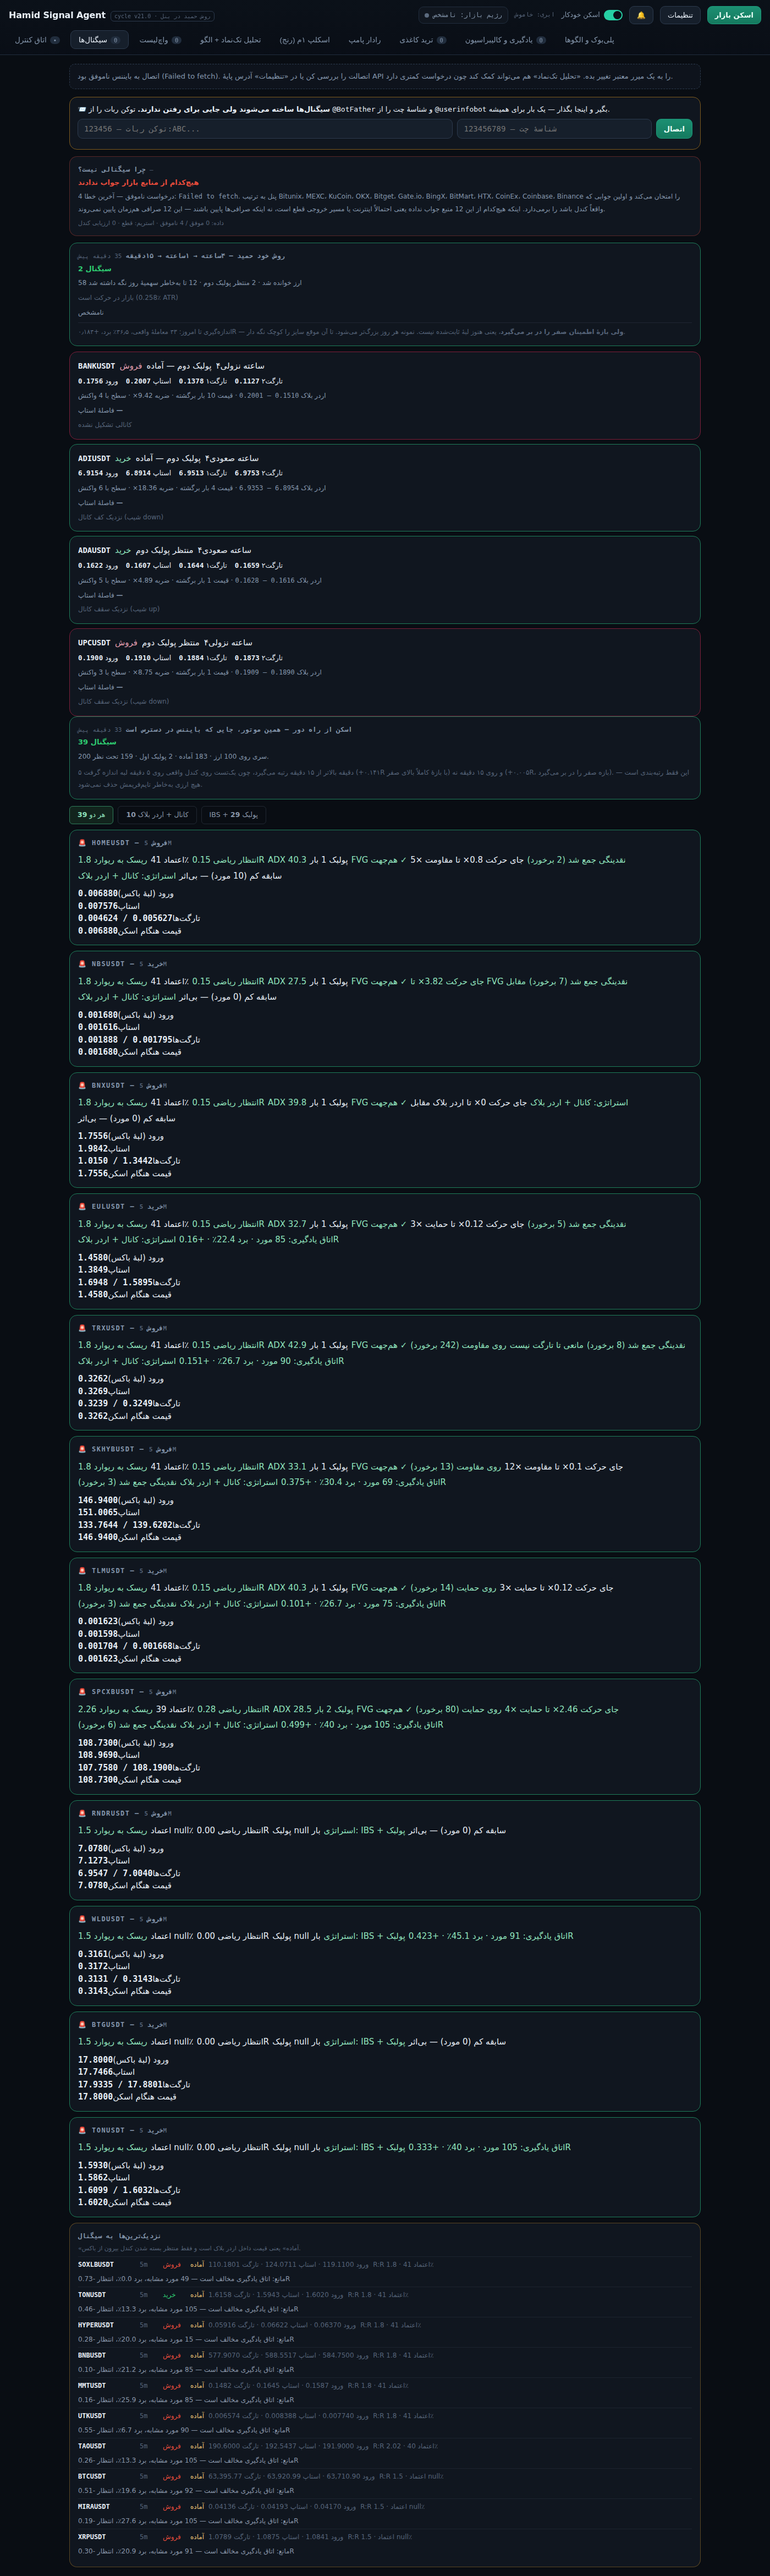
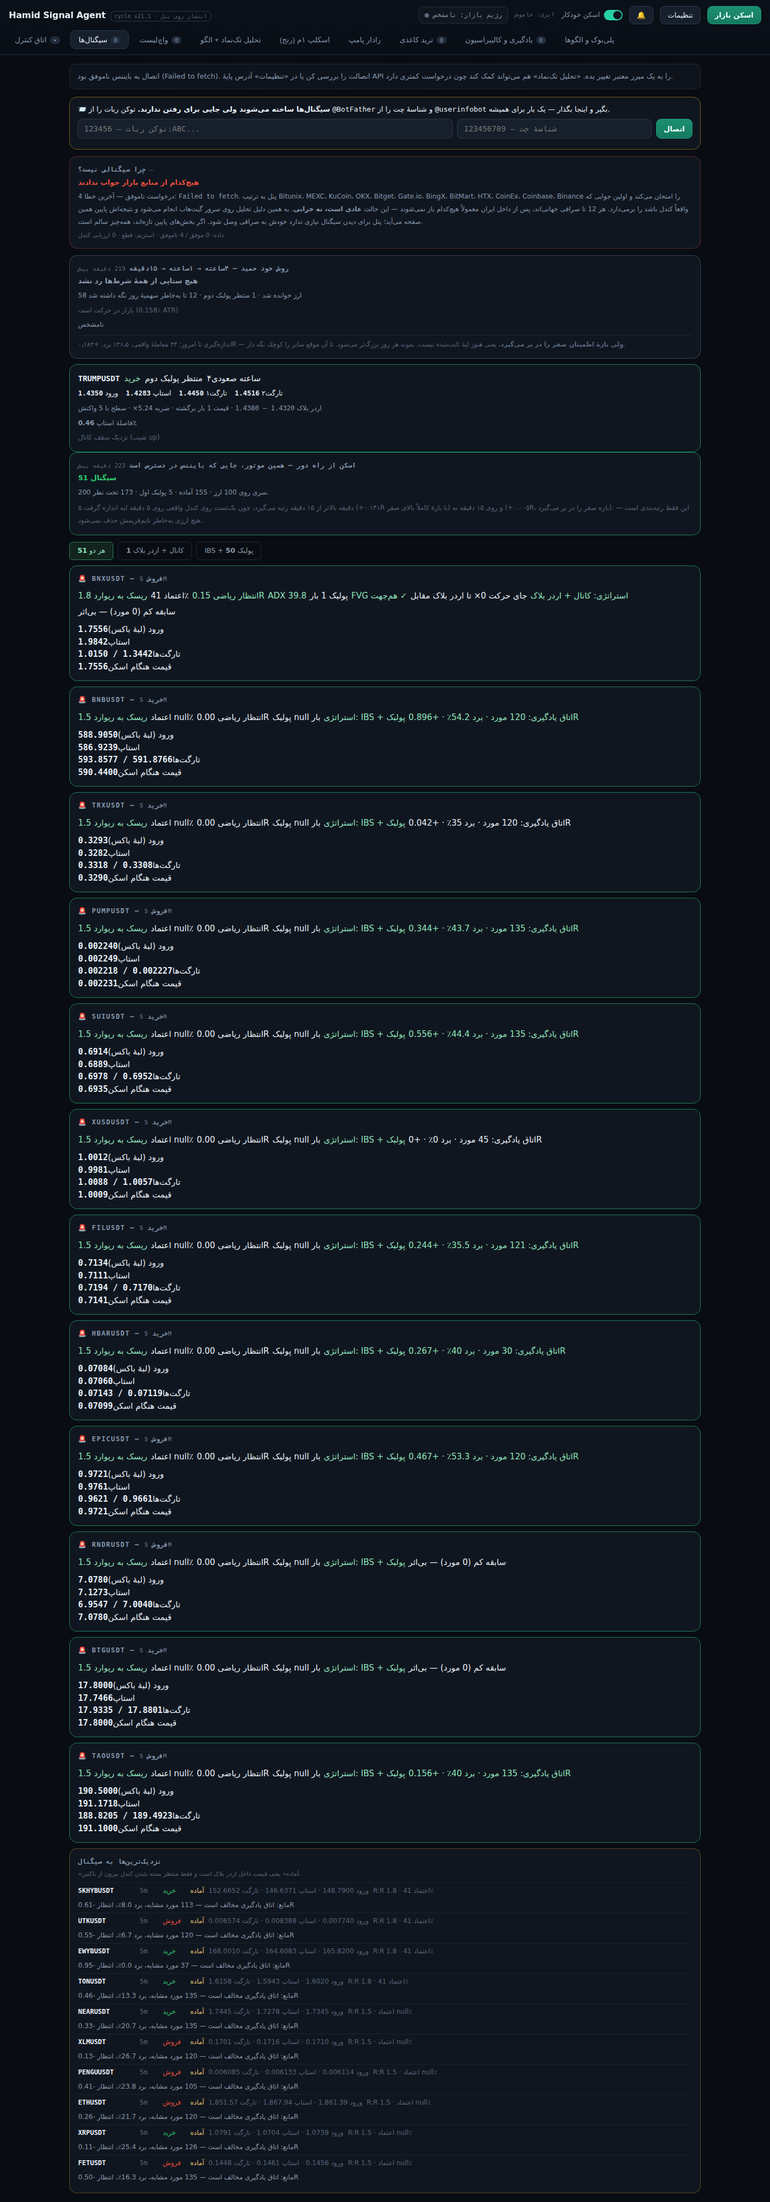
چرخهٔ روش حمید هیچوقت به پنل نمیرسید
حمید گفت پنل مینویسد «هیچکدام از منابع بازار جواب ندادند». آن قسمتش عادی است —
از داخل ایران هیچکدام از ۱۲ صرافی جهانی باز نمیشوند و کل دلیل وجود اسکن از راه
دور همین است. ولی وقتی رفتم بررسی کنم، زیرش یک ایراد واقعی بود:

  signals/latest.json        روی gh-pages  →  ۰٫۹ ساعت پیش   ✓
  signals/hamid-latest.json  روی gh-pages  →  ۳۸٫۸ ساعت پیش  ✗
  signals/hamid-latest.json  روی main      →  ۰٫۳ ساعت پیش

پنل از gh-pages سرو میشود و فایل را نسبت به خودش میخواند. اسکن قدیمی روی هر دو
شاخه منتشر میکرد، ولی چرخهای که برای روش خود حمید نوشتم فقط روی main. یعنی
چرخه هر بیست دقیقه میچرخید و هیچکدامش به کسی که باید ببیندش نمیرسید — و از
بیرون دقیقاً شبیه «کار نمیکند» به نظر میرسید.

حالا هم چرخه و هم ضربان بعد از هر انتشار، فایل را روی gh-pages هم میگذارند.

متن هشدار پنل هم عوض شد. میگفت «احتمالاً اینترنت قطع است»، که برای کسی در ایران
هم غلط است هم نگرانکننده: این حالت برای او همیشگی است. حالا میگوید عادی است،
چرا اینطور است، و اینکه سیگنالها از سرور میآیند نه از مرورگر.

The panel is served from gh-pages and reads the file relative to itself. The
cycle published only to main, so it ran every twenty minutes and none of it
reached the person it was for.

cycle v21.1

Claude-Session: https://claude.ai/code/session_01Hmz5ep1FQiSRdvnpYTDsuE

diff --git a/index.html b/index.html
@@ -217,7 +217,7 @@ input.f{background:var(--panel2);border:1px solid var(--line2);border-radius:9px
 <body dir="ltr">
 <header>
   <div class="bar">
-    <div class="brand"><b>Hamid Signal Agent</b><span class="v" id="ver">cycle v21.0 · روش حمید در پنل</span></div>
+    <div class="brand"><b>Hamid Signal Agent</b><span class="v" id="ver">cycle v21.1 · انتشار روی پنل</span></div>
     <div class="regime" id="regime"><span class="dot"></span><span id="regimeTxt">رژیم بازار: نامشخص</span></div>
     <span class="mono" id="syncPill" style="font-size:11px;color:var(--dim)">ابری: خاموش</span>
     <label class="switch" id="autoSw"><span>اسکن خودکار</span><i></i></label>
@@ -3630,9 +3630,11 @@ function diagHTML(){
     verdict="هیچکدام از منابع بازار جواب ندادند";
     detail=`${n.fail} درخواست ناموفق${n.lastErr?` — آخرین خطا: <span class="mono">${n.lastErr}</span>`:""}.
       پنل به ترتیب ${SOURCES.map(x=>x.label).join("، ")} را امتحان میکند و
-      اولین جوابی که واقعاً کندل باشد را برمیدارد. اینکه هیچکدام از این ${SOURCES.length}
-      منبع جواب نداده یعنی احتمالاً اینترنت یا مسیر خروجی قطع است، نه اینکه صرافیها
-      پایین باشند — این ${SOURCES.length} صرافی همزمان پایین نمیروند.`;
+      اولین جوابی که واقعاً کندل باشد را برمیدارد. هر ${SOURCES.length} تا صرافی
+      جهانیاند، پس از داخل ایران معمولاً هیچکدام باز نمیشوند — این حالت
+      <b>عادی است، نه خرابی</b>. به همین دلیل تحلیل روی سرور گیتهاب انجام میشود
+      و نتیجهاش پایین همین صفحه میآید؛ پنل برای دیدن سیگنال نیازی ندارد خودش به
+      صرافی وصل شود. اگر بخشهای پایین تازهاند، همهچیز سالم است.`;
   }else if(!tot){
     tone="#f0a92e";
     verdict="هنوز اسکنی کامل نشده";

diff --git a/sw.js b/sw.js
@@ -1,7 +1,7 @@
 /* Hamid Signal Agent — service worker
    Caches the app shell so the panel opens instantly (even offline),
    while always going to the network for live market data and the cloud API. */
-const CACHE = "hsa-shell-v21.0";
+const CACHE = "hsa-shell-v21.1";
 const ASSETS = [
   "./",
   "./index.html",
